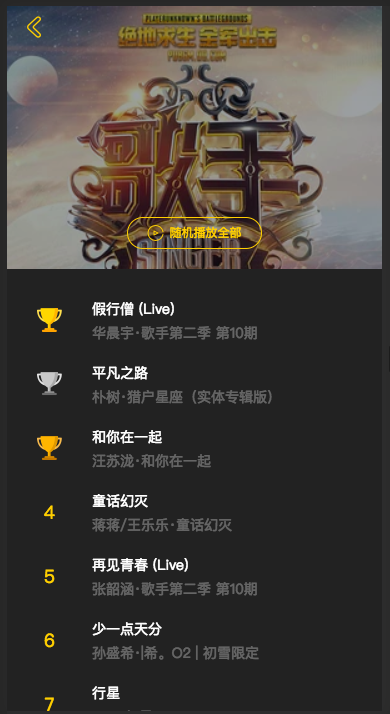
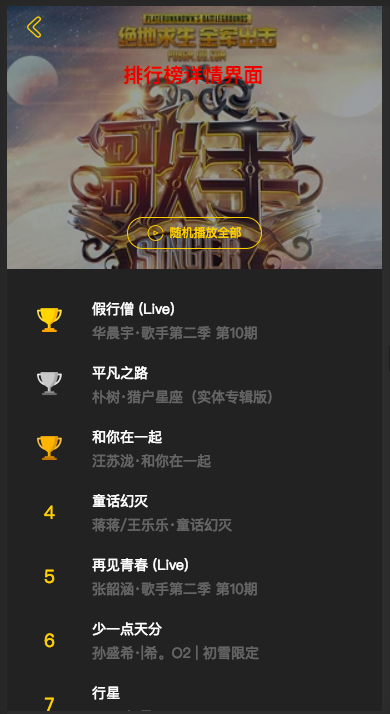
9-4 排行榜详情界面: 抓取数据和应用

Changed region(s): [[0.3077, 0.0924, 0.6769, 0.1232]]

diff --git a/src/components/top-list/top-list.vue b/src/components/top-list/top-list.vue
@@ -1,4 +1,5 @@
 <template>
+  <!-- 07 -->
   <transition name="slide">
     <music-list
       :rank="rank"

diff --git a/README.md b/README.md
@@ -410,7 +410,8 @@ cnpm install lyric-parser
 
 
 ## 9-4
-### 排行榜详情界面抓取数据和应用,jsonp请求
+### (top-list.vue)
+### 排行榜详情界面: 抓取数据和应用
 
 
 ## 9-5
